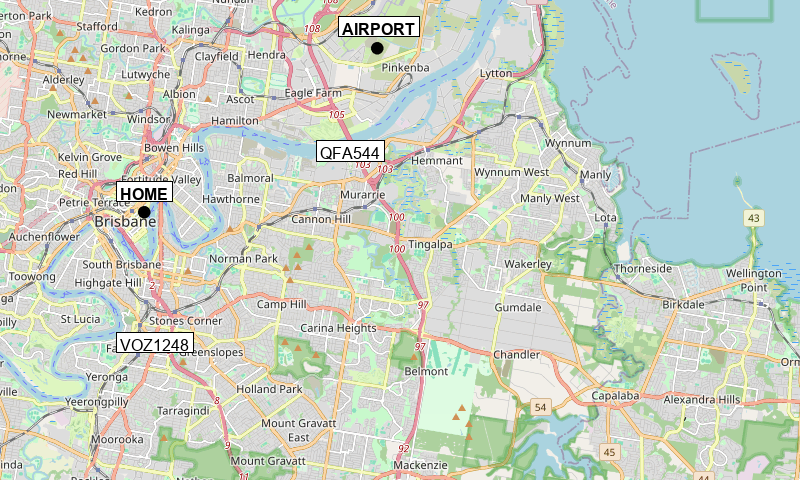
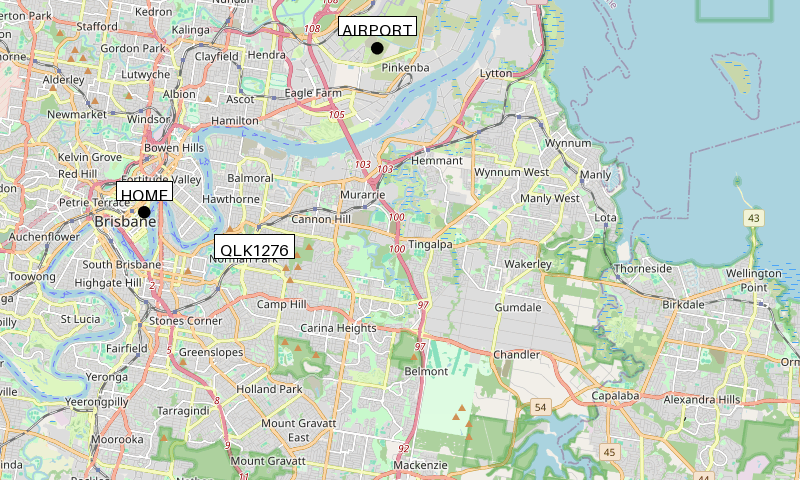
Converted Arial text to pi friendly text, will default to PIL feault text on PC, added extra padding from 4-6 for testing measures

diff --git a/src/Services/map.py b/src/Services/map.py
@@ -25,11 +25,11 @@ def generateMap (flights):
     draw = ImageDraw.Draw(image)
 
     try:
-        font = ImageFont.truetype("arialbd.ttf", 16)
-        font2 = ImageFont.truetype("arial.ttf", 16)
+        font = ImageFont.truetype("/usr/share/fonts/truetype/dejavu/DejaVuSans-Bold.ttf", 16)
+        font2 = ImageFont.truetype("/usr/share/fonts/truetype/dejavu/DejaVuSans.ttf", 16)
     except:
-        font = ImageFont.load_default()
-        font2 = ImageFont.load_default()
+        font = ImageFont.load_default(16)
+        font2 = ImageFont.load_default(16)
 
     #draw HOME Box
     #set name and pixel position
@@ -43,7 +43,7 @@ def generateMap (flights):
     text_h = bbox[3] - bbox[1]
 
     # Draw rectangle
-    padding = 4
+    padding = 6
     box_coords = [
         (text_x - padding, text_y - padding),
         (text_x + text_w + padding, text_y + text_h + padding)
@@ -65,7 +65,7 @@ def generateMap (flights):
     text_h = bbox[3] - bbox[1]
 
     # Draw rectangle
-    padding = 4
+    padding = 6
     box_coords = [
         (text_x - padding, text_y - padding),
         (text_x + text_w + padding, text_y + text_h + padding)
@@ -82,13 +82,13 @@ def generateMap (flights):
         text_x = plane[3]
         text_y = plane[4]
 
-         # Get text bounding box
+        # Get text bounding box
         bbox = draw.textbbox((text_x, text_y), text, font=font2)
         text_w = bbox[2] - bbox[0]
         text_h = bbox[3] - bbox[1]
     
         # Draw rectangle
-        padding = 4
+        padding = 6
         box_coords = [
             (text_x - padding, text_y - padding),
             (text_x + text_w + padding, text_y + text_h + padding)

diff --git a/src/Services/history.py b/src/Services/history.py
@@ -55,13 +55,13 @@ def generateHistory(flights, displayHistory):
 
     # Load font (fallback to default if not available)
     try:
-        header_font = ImageFont.truetype("arialbd.ttf", 30)
-        cell_header = ImageFont.truetype("arialbd.ttf", 26)
-        cell_font = ImageFont.truetype("arial.ttf", 26)
+        header_font = ImageFont.truetype("/usr/share/fonts/truetype/dejavu/DejaVuSans-Bold.ttf", 30)
+        cell_header = ImageFont.truetype("/usr/share/fonts/truetype/dejavu/DejaVuSans-Bold.ttf", 30)
+        cell_font = ImageFont.truetype("/usr/share/fonts/truetype/dejavu/DejaVuSans.ttf", 26)
     except:
-        header_font = ImageFont.load_default()
-        cell_header = ImageFont.load_default()
-        cell_font = ImageFont.load_default()
+        header_font = ImageFont.load_default(30)
+        cell_header = ImageFont.load_default(30)
+        cell_font = ImageFont.load_default(26)
 
     # Helper function to get text width & height from bbox
     def get_text_size(text, font):
